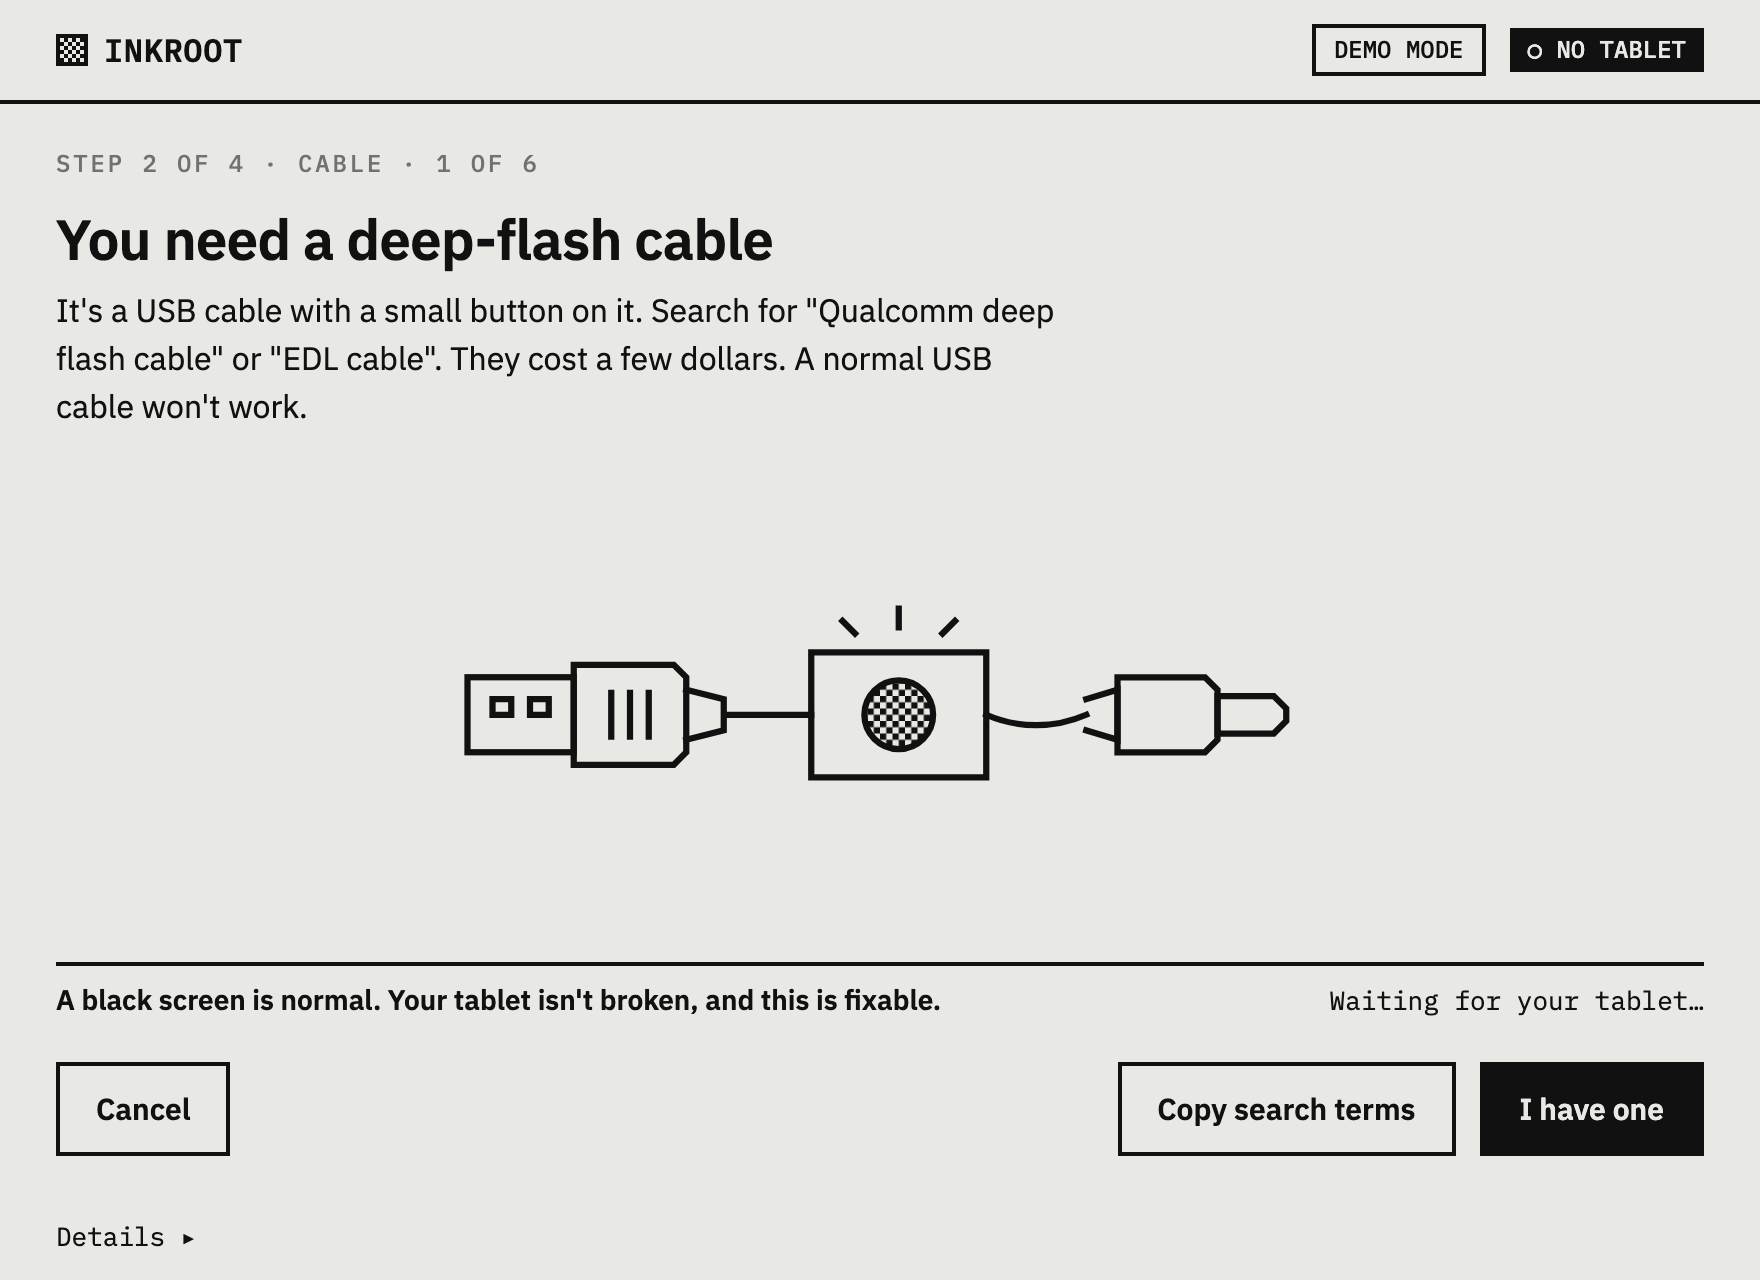
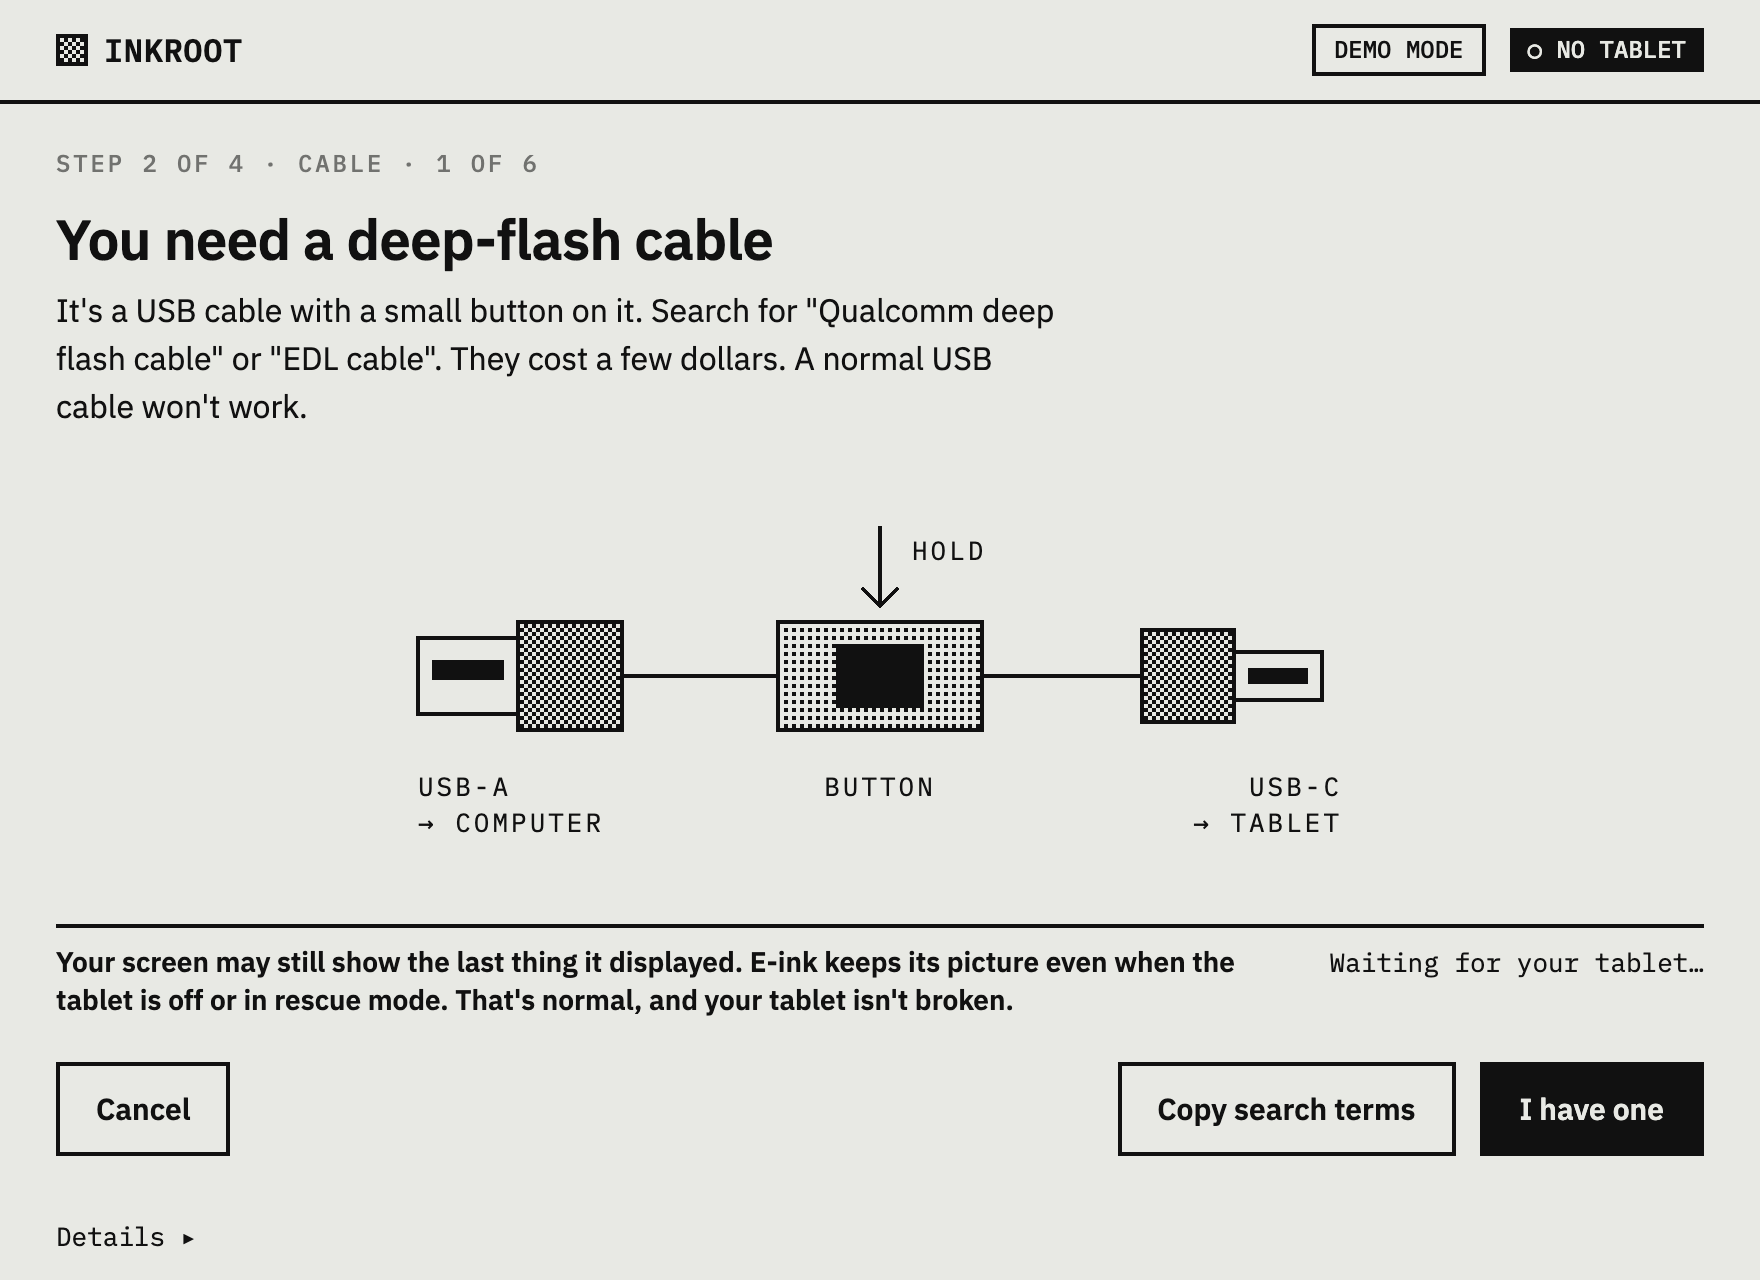
screenshots: retake from current app (new cable art, e-ink wording)

diff --git a/site/index.html b/site/index.html
@@ -165,7 +165,7 @@
           <p>Inkroot reads your tablet's startup software (the <code>boot</code> partition) over Qualcomm EDL, checks it twice, and keeps it on your computer. Nothing is written without it.</p>
         </div>
         <div class="screen"><img src="assets/screenshots/root-step.png" width="880" height="640" loading="lazy" decoding="async"
-          alt="Inkroot writing to the tablet: a segmented progress bar and “The screen may stay blank. That's normal. Don't unplug it.”"></div>
+          alt="Inkroot writing to the tablet: a segmented progress bar and “The screen may stay blank, or keep showing the last thing it displayed. That's normal. Don't unplug it.”"></div>
       </li>
       <li>
         <div class="body">
